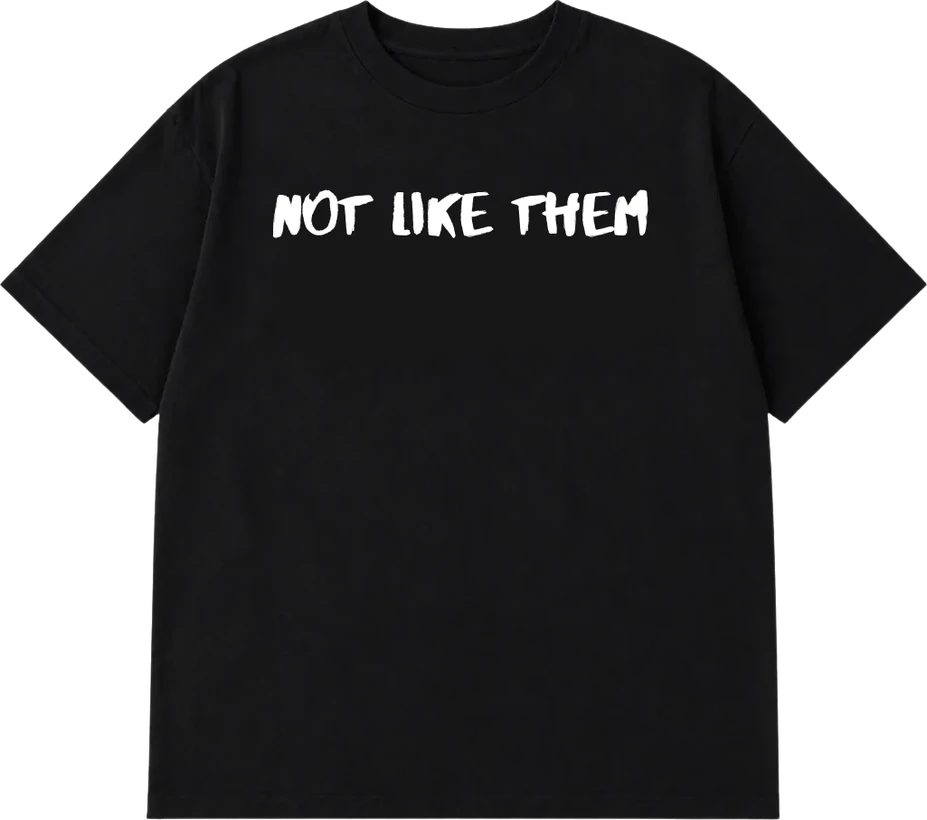
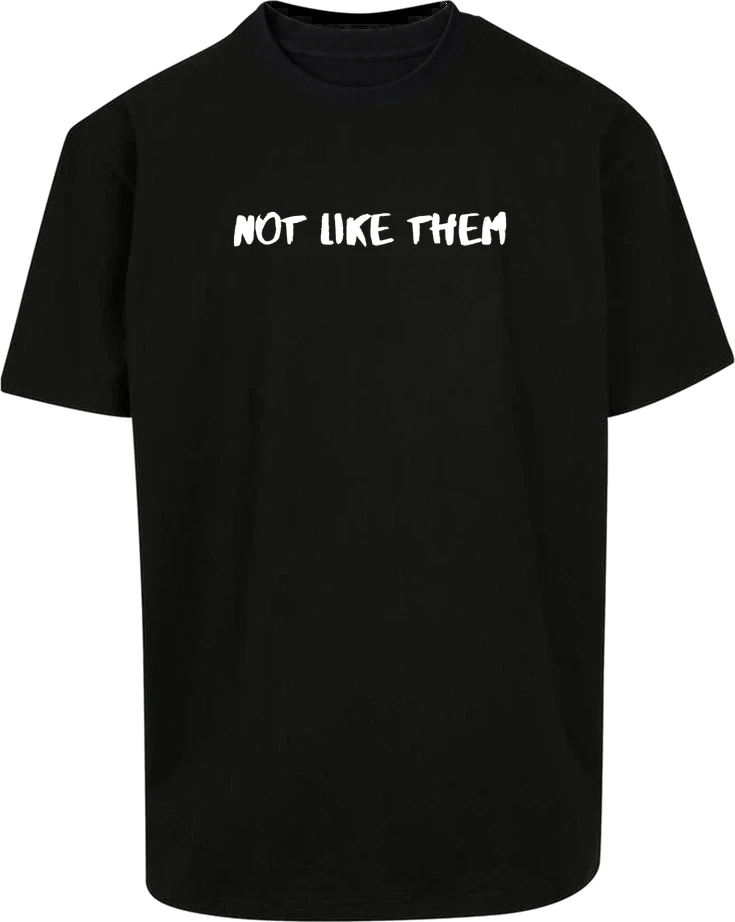
Preventa: fotos de delante sobre la misma camiseta oversize que las de espalda
Claude-Session: https://claude.ai/code/session_01W5ky4QjpNWCBcPcfCA4882

diff --git a/src/components/presale.css b/src/components/presale.css
@@ -38,10 +38,6 @@
 }
 .ps-img.on { opacity: 1; transform: scale(1); }
 .ps-card.is-hover .ps-img.on { transform: scale(1.03); transition: opacity 0.6s ease, transform 6s cubic-bezier(0.16, 1, 0.3, 1); }
-/* La foto de delante es más ancha que alta: ocupa toda la tarjeta para que la prenda no se vea más pequeña que las de espalda */
-.ps-img.is-front { inset: 0; width: 100%; height: 100%; transform: scale(1.14); }
-.ps-img.is-front.on { transform: scale(1.1); }
-.ps-card.is-hover .ps-img.is-front.on { transform: scale(1.13); }
 .ps-dots {
   position: absolute;
   left: 0.9rem;

diff --git a/src/components/PresaleReact.tsx b/src/components/PresaleReact.tsx
@@ -439,7 +439,7 @@ function Card({
         <span className="ps-thumb" ref={media}>
           {imgs.length ? (
             imgs.map((src, k) => (
-              <img key={src} className={`ps-img${src === p.front ? " is-front" : ""}${k === shown ? " on" : ""}`} src={src} alt="" loading="lazy" draggable={false} />
+              <img key={src} className={`ps-img${k === shown ? " on" : ""}`} src={src} alt="" loading="lazy" draggable={false} />
             ))
           ) : (
             <span className="ps-soon">Foto pronto</span>
